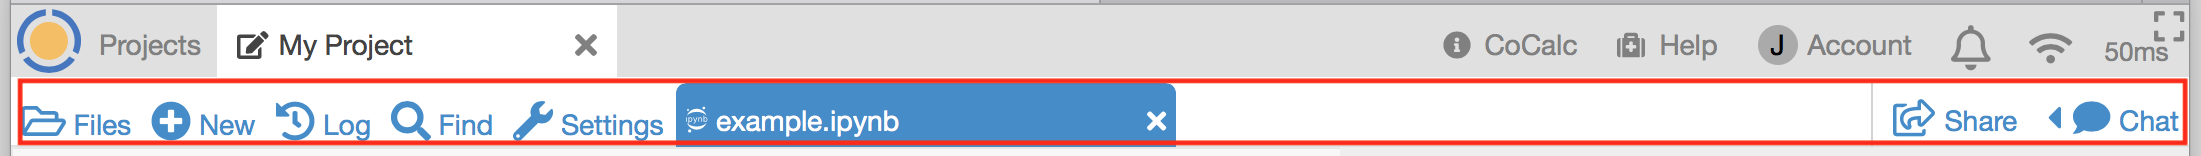
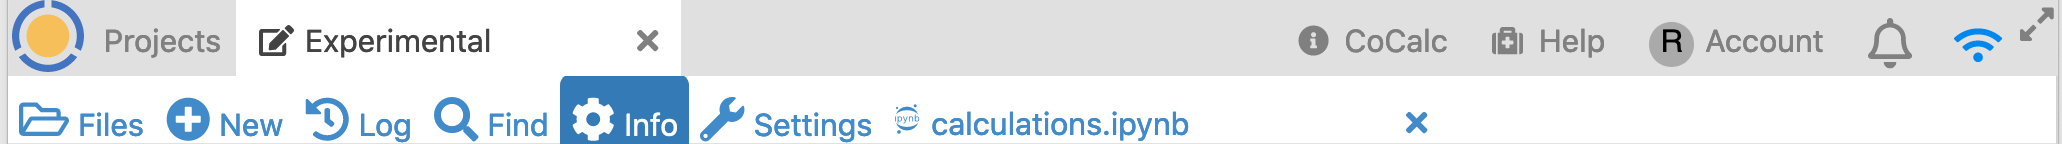
project info panel

diff --git a/source/howto/low-memory.rst b/source/howto/low-memory.rst
@@ -59,12 +59,17 @@ Ways to clear up your project's memory
 Inspect in detail why the project is running out of memory
 ----------------------------------------------------------
 
-1. Project settings
+1. Project Info
 ^^^^^^^^^^^^^^^^^^^
 
-You can also look in the Settings (wrench) tab of your project under "Shared RAM", which will say how much is "currently" used.  This is only updated once every 30 seconds though, and may not show spikes in attempted memory allocation.
+You can click the "Info" button in the Files toolbar to see a list of running processes and how much memory each is using. See :ref:`project Info <ft-info>` for details.
 
-2. Use "top"/"htop" in a terminal
+2. Project settings
+^^^^^^^^^^^^^^^^^^^
+
+You can look in the Settings (wrench) tab of your project under "Shared RAM", which will say how much is "currently" used.  This is only updated once every 30 seconds though, and may not show spikes in attempted memory allocation.
+
+3. Use "top"/"htop" in a terminal
 ^^^^^^^^^^^^^^^^^^^^^^^^^^^^^^^^^^
 
 Currently the easiest way to test this is to open a terminal in your project, then type ``top``. Watch the processes listed there, especially the column labeled `RES`, which stands for "resident memory".
@@ -74,7 +79,7 @@ You can type "M" into top to make it sort processes by memory, which will help i
 
 ``htop`` is a more modern alternative to ``top``. You can use the functional keys to issue commands or even use the mouse to point and click.
 
-3. Use "smem -ntk" in a terminal
+4. Use "smem -ntk" in a terminal
 ^^^^^^^^^^^^^^^^^^^^^^^^^^^^^^^^^^
 
 This command gives a useful breakdown of memory usage.
@@ -85,7 +90,7 @@ But if you're hitting memory issues and just want more space, `upgrade your proj
 
 The subscription are `listed here <https://cocalc.com/policies/pricing.html>`_. For example, for $14/month, you can upgrade memory from 1 GB to 5 GB, and have a **lot** more elbow room!  If you're confused or have questions about upgrading, just ask at help@cocalc.com.
 
-4. Peak memory usage
+5. Peak memory usage
 ^^^^^^^^^^^^^^^^^^^^^^^
 
 In a :doc:`../terminal`, you can check the peak memory usage of a utility this way::

diff --git a/source/getting-started.rst b/source/getting-started.rst
@@ -113,7 +113,7 @@ The Project Toolbar
 Here's quick tour of the topmost toolbar in CoCalc, the **Project Toolbar**.
 
 .. image:: img/getting-started/toolbars-projects-a.png
-     :width: 90%
+     :width: 90% 
 
 Going from left to right:
 
@@ -207,6 +207,18 @@ From left to right:
   the currently selected file, or the project home directory if no file is selected. There are options
   to for searching subdirectories, case sensitive search, including hidden files, and restricting search
   to files in a git repository.
+
+.. _ft-info:
+
+* |settings| **Info** - This panel offers a consolidated view of real-time activity within the current project. Use the Help button at upper right for details about this extremely useful panel. You can view use of CPU, memory, and disk space. There is a list of running processes, showing resource use by each and allowing you to terminate non-essential processes.
+
+.. note::
+
+    The "Memory" column in the Info panel's process list can help you track down out-of-memory problems.
+
+.. image:: img/getting-started/process-info.png
+     :align: center
+     :width: 95%
 
 .. _ft-settings:
 
@@ -349,4 +361,7 @@ You can find the CoCalc Accessibility Statement on our wiki at https://github.co
      :width: 16px
 .. |comment|
      image:: https://github.com/encharm/Font-Awesome-SVG-PNG/raw/master/black/png/128/comment-o.png
+     :width: 16px
+.. |settings|
+     image:: https://github.com/encharm/Font-Awesome-SVG-PNG/raw/master/black/png/128/gear.png
      :width: 16px
